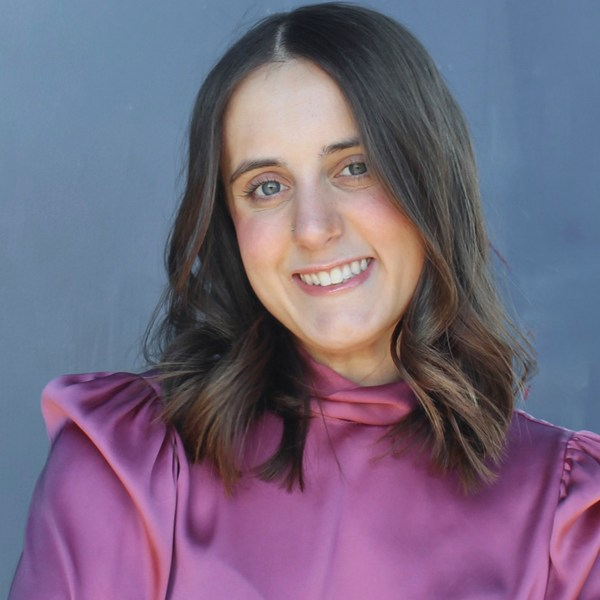
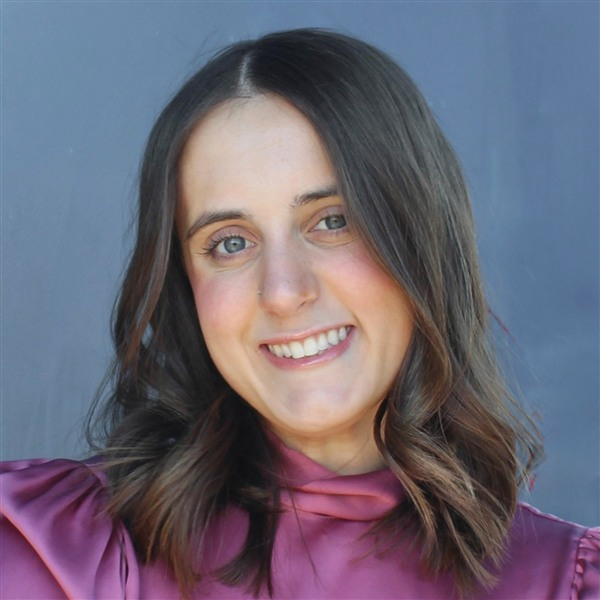
Update home page: scrollytelling exec summary, ghost Scroll CTA, headshot
- Executive Summary rebuilt as a 360vh pinned runway (ExecSummaryScene):
  4 paragraphs reveal one at a time on scroll, background sticks in place,
  matching the Core Thought mechanic on the trend pages. Copy updated to
  match Figma node 114:13; em-dash replaced with period per style rules.
- Hero "Scroll" CTA changed to ghost/outline style (Secondary Brand per
  Figma), transparent fill with white 1px ring and "Scroll ↓" label.
- Exec summary type and layout: serif 32px max, 900px wide container,
  vertical padding so eyebrow breathes away from the nav; all four
  paragraphs fit within a laptop viewport when fully revealed.
- Madeleine's headshot replaced with user-supplied photo (600×600, full
  head with headroom, well-centered).

diff --git a/src/app/landing.css b/src/app/landing.css
@@ -103,6 +103,28 @@
   box-shadow: 0 0 0 1px rgba(255, 255, 255, 0.85);
 }
 
+/* Figma "Secondary Brand" / ghost style for the hero Scroll CTA.
+   Transparent fill, white border (meets WCAG 1.4.11 at 3:1 on the violet bg),
+   white text. Works standalone without btn-primary. */
+.lp-cta--ghost {
+  display: inline-block;
+  background: transparent;
+  color: #fff;
+  box-shadow: 0 0 0 1px rgba(255, 255, 255, 0.72);
+  text-decoration: none;
+  cursor: pointer;
+  border: none;
+  transition: background 0.28s var(--lp-ease), box-shadow 0.28s var(--lp-ease);
+}
+.lp-cta--ghost:hover {
+  background: rgba(255, 255, 255, 0.10);
+  box-shadow: 0 0 0 1px rgba(255, 255, 255, 0.95);
+}
+.lp-cta--ghost:focus-visible {
+  outline: 2px solid rgba(255, 255, 255, 0.9);
+  outline-offset: 3px;
+}
+
 /* ── Section blend bands ────────────────────────────────────── */
 /* Backgrounds change through a full-width band rather than cutting, the same
    device the /trend-1 page uses. Extra stops hold the start and end
@@ -239,12 +261,32 @@
 }
 
 /* ── 2. Executive summary — node 114:13 ─────────────────────── */
+/* Scrollytelling runway — the section is a container only; height is driven by
+   the runway inside, not the viewport. lp-section min-height / padding are
+   overridden so the runway fills the section cleanly. */
 .lp-exec {
+  min-height: 0;
+  padding: 0;
+  display: block;
   color: #fff;
   background: linear-gradient(176deg, #241a4a 0%, #2f2260 52%, #201a44 100%);
 }
 
-.lp-exec .lp-backdrop { --fade-top: 14%; --fade-bottom: 14%; }
+/* Runway: scroll distance for 4 paragraph reveals. */
+.lp-exec__runway { position: relative; height: 360vh; }
+
+/* Pin: viewport-filling sticky frame that holds the backdrop + copy. */
+.lp-exec__pin {
+  position: sticky;
+  top: var(--nav-h);
+  min-height: calc(100vh - var(--nav-h));
+  min-height: calc(100svh - var(--nav-h));
+  display: flex;
+  align-items: center;
+  overflow: clip;
+}
+
+.lp-exec__pin .lp-backdrop { --fade-top: 14%; --fade-bottom: 14%; }
 
 /* The 30% black veil from the Figma frame, over the mesh but under the copy. */
 .lp-exec__veil {
@@ -274,15 +316,55 @@
   animation: lp-drift-d 46s ease-in-out infinite alternate;
 }
 
-/* Headline left, summary right — collapses to a stack. */
-.lp-exec__split {
-  display: grid;
-  grid-template-columns: minmax(0, 504fr) minmax(0, 540fr);
-  gap: clamp(32px, 5vw, 96px);
-  align-items: center;
+/* Content block: centred column, Figma-matching large serif.
+   Width is wider than before so lines wrap less, keeping paragraph heights
+   short enough that all four fit inside a laptop viewport when fully revealed. */
+.lp-exec__inner {
+  width: min(900px, 90%);
+  margin: 0 auto;
+  text-align: center;
+  display: flex;
+  flex-direction: column;
+  gap: clamp(16px, 2.2vw, 32px);
+  /* Vertical breathing room so the eyebrow doesn't crowd the nav. */
+  padding: clamp(32px, 4svh, 64px) 0;
 }
-@media (max-width: 900px) {
-  .lp-exec__split { grid-template-columns: 1fr; gap: 28px; }
+
+.lp-exec__eyebrow {
+  font-family: var(--font-sans), system-ui, sans-serif;
+  font-size: 11px;
+  font-weight: 600;
+  letter-spacing: 0.12em;
+  text-transform: uppercase;
+  color: var(--purple-lt, #e5b4ff);
+  margin: 0;
+}
+
+/* Large editorial serif — Cormorant Garamond standing in for GT Sectra Fine
+   (same substitution used on the trend pages). Sized so all four paragraphs
+   fit within a standard laptop viewport (1440×900 or 1512×982). */
+.lp-exec__text {
+  font-family: var(--font-editorial), Georgia, serif;
+  font-weight: 600;
+  font-size: clamp(18px, 2.1vw, 32px);
+  line-height: 1.28;
+  letter-spacing: -0.01em;
+  color: rgba(255, 255, 255, 0.94);
+  margin: 0;
+}
+
+/* Fade + upward lift: 0 → 1 only, never a dimmed intermediate that fails
+   contrast. Same mechanic as .trs-reveal on the trend pages. */
+.lp-exec__reveal {
+  opacity: 0;
+  transform: translate3d(0, 0.25em, 0);
+  transition:
+    opacity 0.65s var(--lp-ease),
+    transform 0.75s var(--lp-ease);
+}
+.lp-exec__reveal[data-shown] {
+  opacity: 1;
+  transform: none;
 }
 
 /* ── 3. Trend 1 — node 284:671 ──────────────────────────────── */
@@ -578,4 +660,7 @@
     transform: none !important;
   }
   .lp-shot { transition: none; }
+  /* ExecSummaryScene uses reduced = true to skip progress and show everything;
+     the transitions just need killing so reveals appear immediately. */
+  .lp-exec__reveal { transition: none !important; }
 }

diff --git a/src/components/ExecSummaryScene.tsx b/src/components/ExecSummaryScene.tsx
@@ -1,0 +1,57 @@
+"use client";
+
+import LiveBackdrop from "@/components/LiveBackdrop";
+import { useReducedMotion, useRunwayProgress } from "@/components/scroll/motion";
+
+/* Figma node 114:13 — Executive Summary.
+   Three visual paragraphs (the Figma compound first-para is split here so each
+   thought gets its own reveal beat). Em-dashes removed per CLAUDE.md. */
+const PARAS = [
+  "Every year, Accenture Life Trends examines the interplay between people, culture, and the shifts defining how we live.",
+  "This year, we turned the lens inward. Building a consolidated point of view on what's happening across the United States.",
+  "We convened D&DP brand ambassadors and regional leads through a series of workshops to gather ground-level signals from practitioners embedded in their local contexts.",
+  "This microsite captures where the US is moving together and where it's pulling apart, to help us show up better for the clients navigating it alongside their customers.",
+];
+
+const EYEBROW_AT = 0.04;
+const SHOWN_AT = [0.10, 0.32, 0.54, 0.74];
+
+export default function ExecSummaryScene() {
+  const reduced = useReducedMotion();
+  const { ref, progress } = useRunwayProgress<HTMLDivElement>();
+  const p = reduced ? 1 : progress;
+
+  return (
+    <div className="lp-exec__runway" ref={ref}>
+      <div className="lp-exec__pin">
+        <LiveBackdrop>
+          <span className="lp-orb lp-exec__orb--a" />
+          <span className="lp-orb lp-exec__orb--b" />
+          <span className="lp-orb lp-exec__orb--c" />
+          <span className="lp-orb lp-exec__orb--d" />
+          <span className="lp-exec__veil" />
+        </LiveBackdrop>
+
+        <div className="lp-section__inner">
+          <div className="lp-exec__inner">
+            <p
+              className="lp-exec__eyebrow lp-exec__reveal"
+              data-shown={p >= EYEBROW_AT ? "" : undefined}
+            >
+              Executive Summary
+            </p>
+            {PARAS.map((text, i) => (
+              <p
+                key={i}
+                className="lp-exec__text lp-exec__reveal"
+                data-shown={p >= SHOWN_AT[i] ? "" : undefined}
+              >
+                {text}
+              </p>
+            ))}
+          </div>
+        </div>
+      </div>
+    </div>
+  );
+}

diff --git a/src/app/page.tsx b/src/app/page.tsx
@@ -2,6 +2,7 @@ import Link from "next/link";
 import type { Metadata } from "next";
 import LiveBackdrop from "@/components/LiveBackdrop";
 import ScrollReveal from "@/components/ScrollReveal";
+import ExecSummaryScene from "@/components/ExecSummaryScene";
 import "./landing.css";
 
 export const metadata: Metadata = {
@@ -66,8 +67,8 @@ export default function HomePage() {
             <h1 className="lp-display">The forces reshaping how we live</h1>
 
             <div className="lp-hero__scroll">
-              <a href="#executive-summary" className="btn-primary lp-cta lp-cta--on-glow">
-                Scroll
+              <a href="#executive-summary" className="lp-cta lp-cta--ghost">
+                Scroll ↓
               </a>
             </div>
           </div>
@@ -78,30 +79,7 @@ export default function HomePage() {
 
       {/* ── 2. Executive summary ────────────────────────────────── */}
       <section id="executive-summary" className="lp-section lp-exec on-dark">
-        <LiveBackdrop>
-          <span className="lp-orb lp-exec__orb--a" />
-          <span className="lp-orb lp-exec__orb--b" />
-          <span className="lp-orb lp-exec__orb--c" />
-          <span className="lp-orb lp-exec__orb--d" />
-          <span className="lp-exec__veil" />
-        </LiveBackdrop>
-
-        <div className="lp-section__inner">
-          <div className="container">
-            <div className="lp-exec__split">
-              <ScrollReveal>
-                <h2 className="lp-h2">Executive Summary</h2>
-              </ScrollReveal>
-              <ScrollReveal delay={90}>
-                <p className="lp-body-xl" style={{ color: "rgba(255,255,255,0.92)" }}>
-                  Built from research across the US, these trends reveal how people&apos;s
-                  behaviors and attitudes are evolving alongside shifts in business,
-                  technology, and society.
-                </p>
-              </ScrollReveal>
-            </div>
-          </div>
-        </div>
+        <ExecSummaryScene />
       </section>
 
       <Blend from={EXEC_END} to={INK_T1} />

diff --git a/context/DECISIONS.md b/context/DECISIONS.md
@@ -76,3 +76,6 @@ them with a new row and mark the old one `Superseded`.
 | 2026-08-19 | Hero title text kept as "Give Me the Receipts," not Figma's "Give me the receipts!!!" | CLAUDE.md pins the trend name as a proper noun sitewide; Figma's lowercase/exclamation treatment reads as a one-off hero flourish that would put the page out of sync with the nav, landing page, and methodology references. Typeface and background still follow the frame exactly — only the copy's casing/punctuation was normalized. Flagged for the user in case the literal Figma text is actually wanted | Active |
 | 2026-08-19 | `.trs-core__text` (both trends) switched from `--font-serif` (resolves to DM Sans, the sans face) to a new `--font-editorial` token (Cormorant Garamond, substituting GT Sectra Fine per design/design.md) | Figma's core-thought body (170:571) is set in a bold serif; the site's `--font-serif` variable has pointed at the sans face since the project's original scaffold, so core-thought was rendering sans-serif on both trend pages already, not just Trend 2. Scoped to `.trs-core__text` rather than fixing the shared token, since `--font-serif` also drives headings on the landing/methodology pages, which weren't part of this request | Active |
 | 2026-08-19 | Implication cards sized up again, to `clamp(380px, 34vw, 500px)`, on request (both trends) | Third pass on this value this session (550→400→430→500). No longer trying to fit the section within one viewport — the user asked for taller cards outright | Active |
+| 2026-08-20 | Hero "Scroll" CTA changed from purple fill (btn-primary) to ghost/outline style (transparent + white 1px ring) | Figma node 114:10 specifies Secondary Brand button; the white border satisfies WCAG 1.4.11 at 3:1 on the violet gradient | Active |
+| 2026-08-20 | Executive Summary rebuilt as a pinned scrollytelling runway (360vh) with 4 paragraphs revealing one at a time via `useRunwayProgress` | User request: background sticks while paragraphs reveal sequentially on scroll, matching the Core Thought mechanic on the trend pages | Active |
+| 2026-08-20 | Executive Summary copy updated to 4 paragraphs from Figma node 114:13; em-dash in original replaced with period per CLAUDE.md no-em-dash rule | Copy now: "Every year…", "This year…", "We convened…", "This microsite captures…" | Active |
